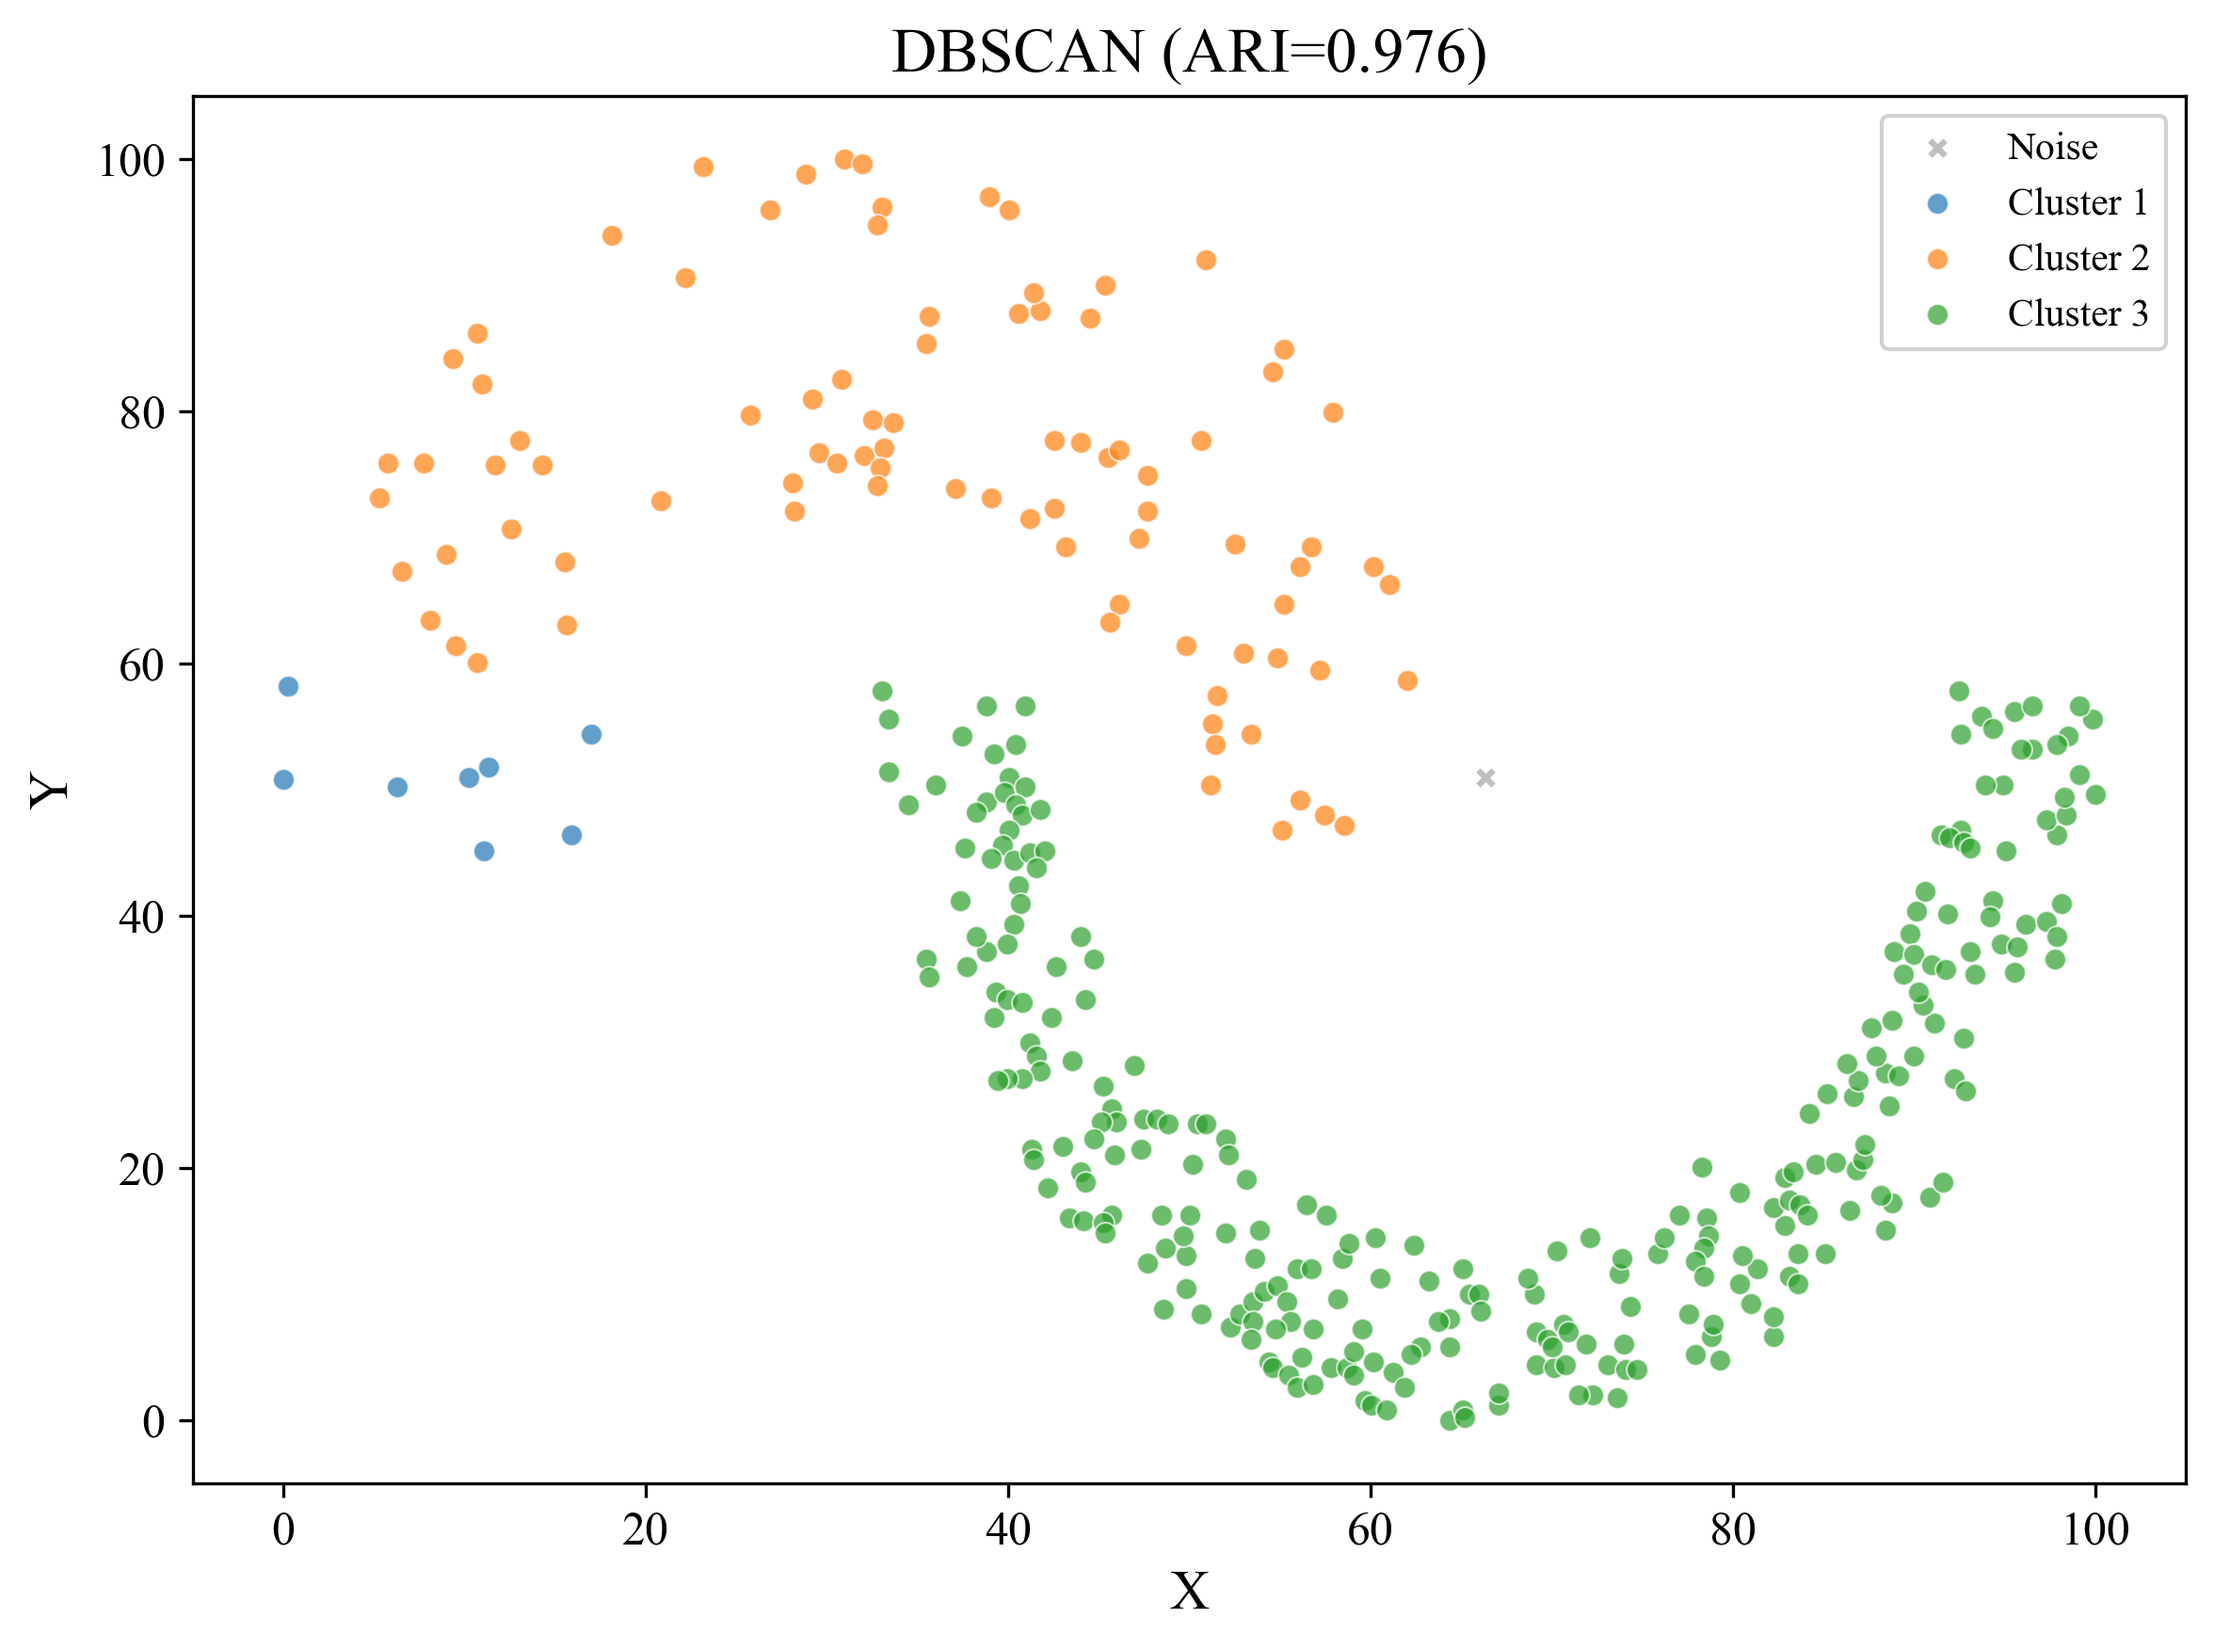
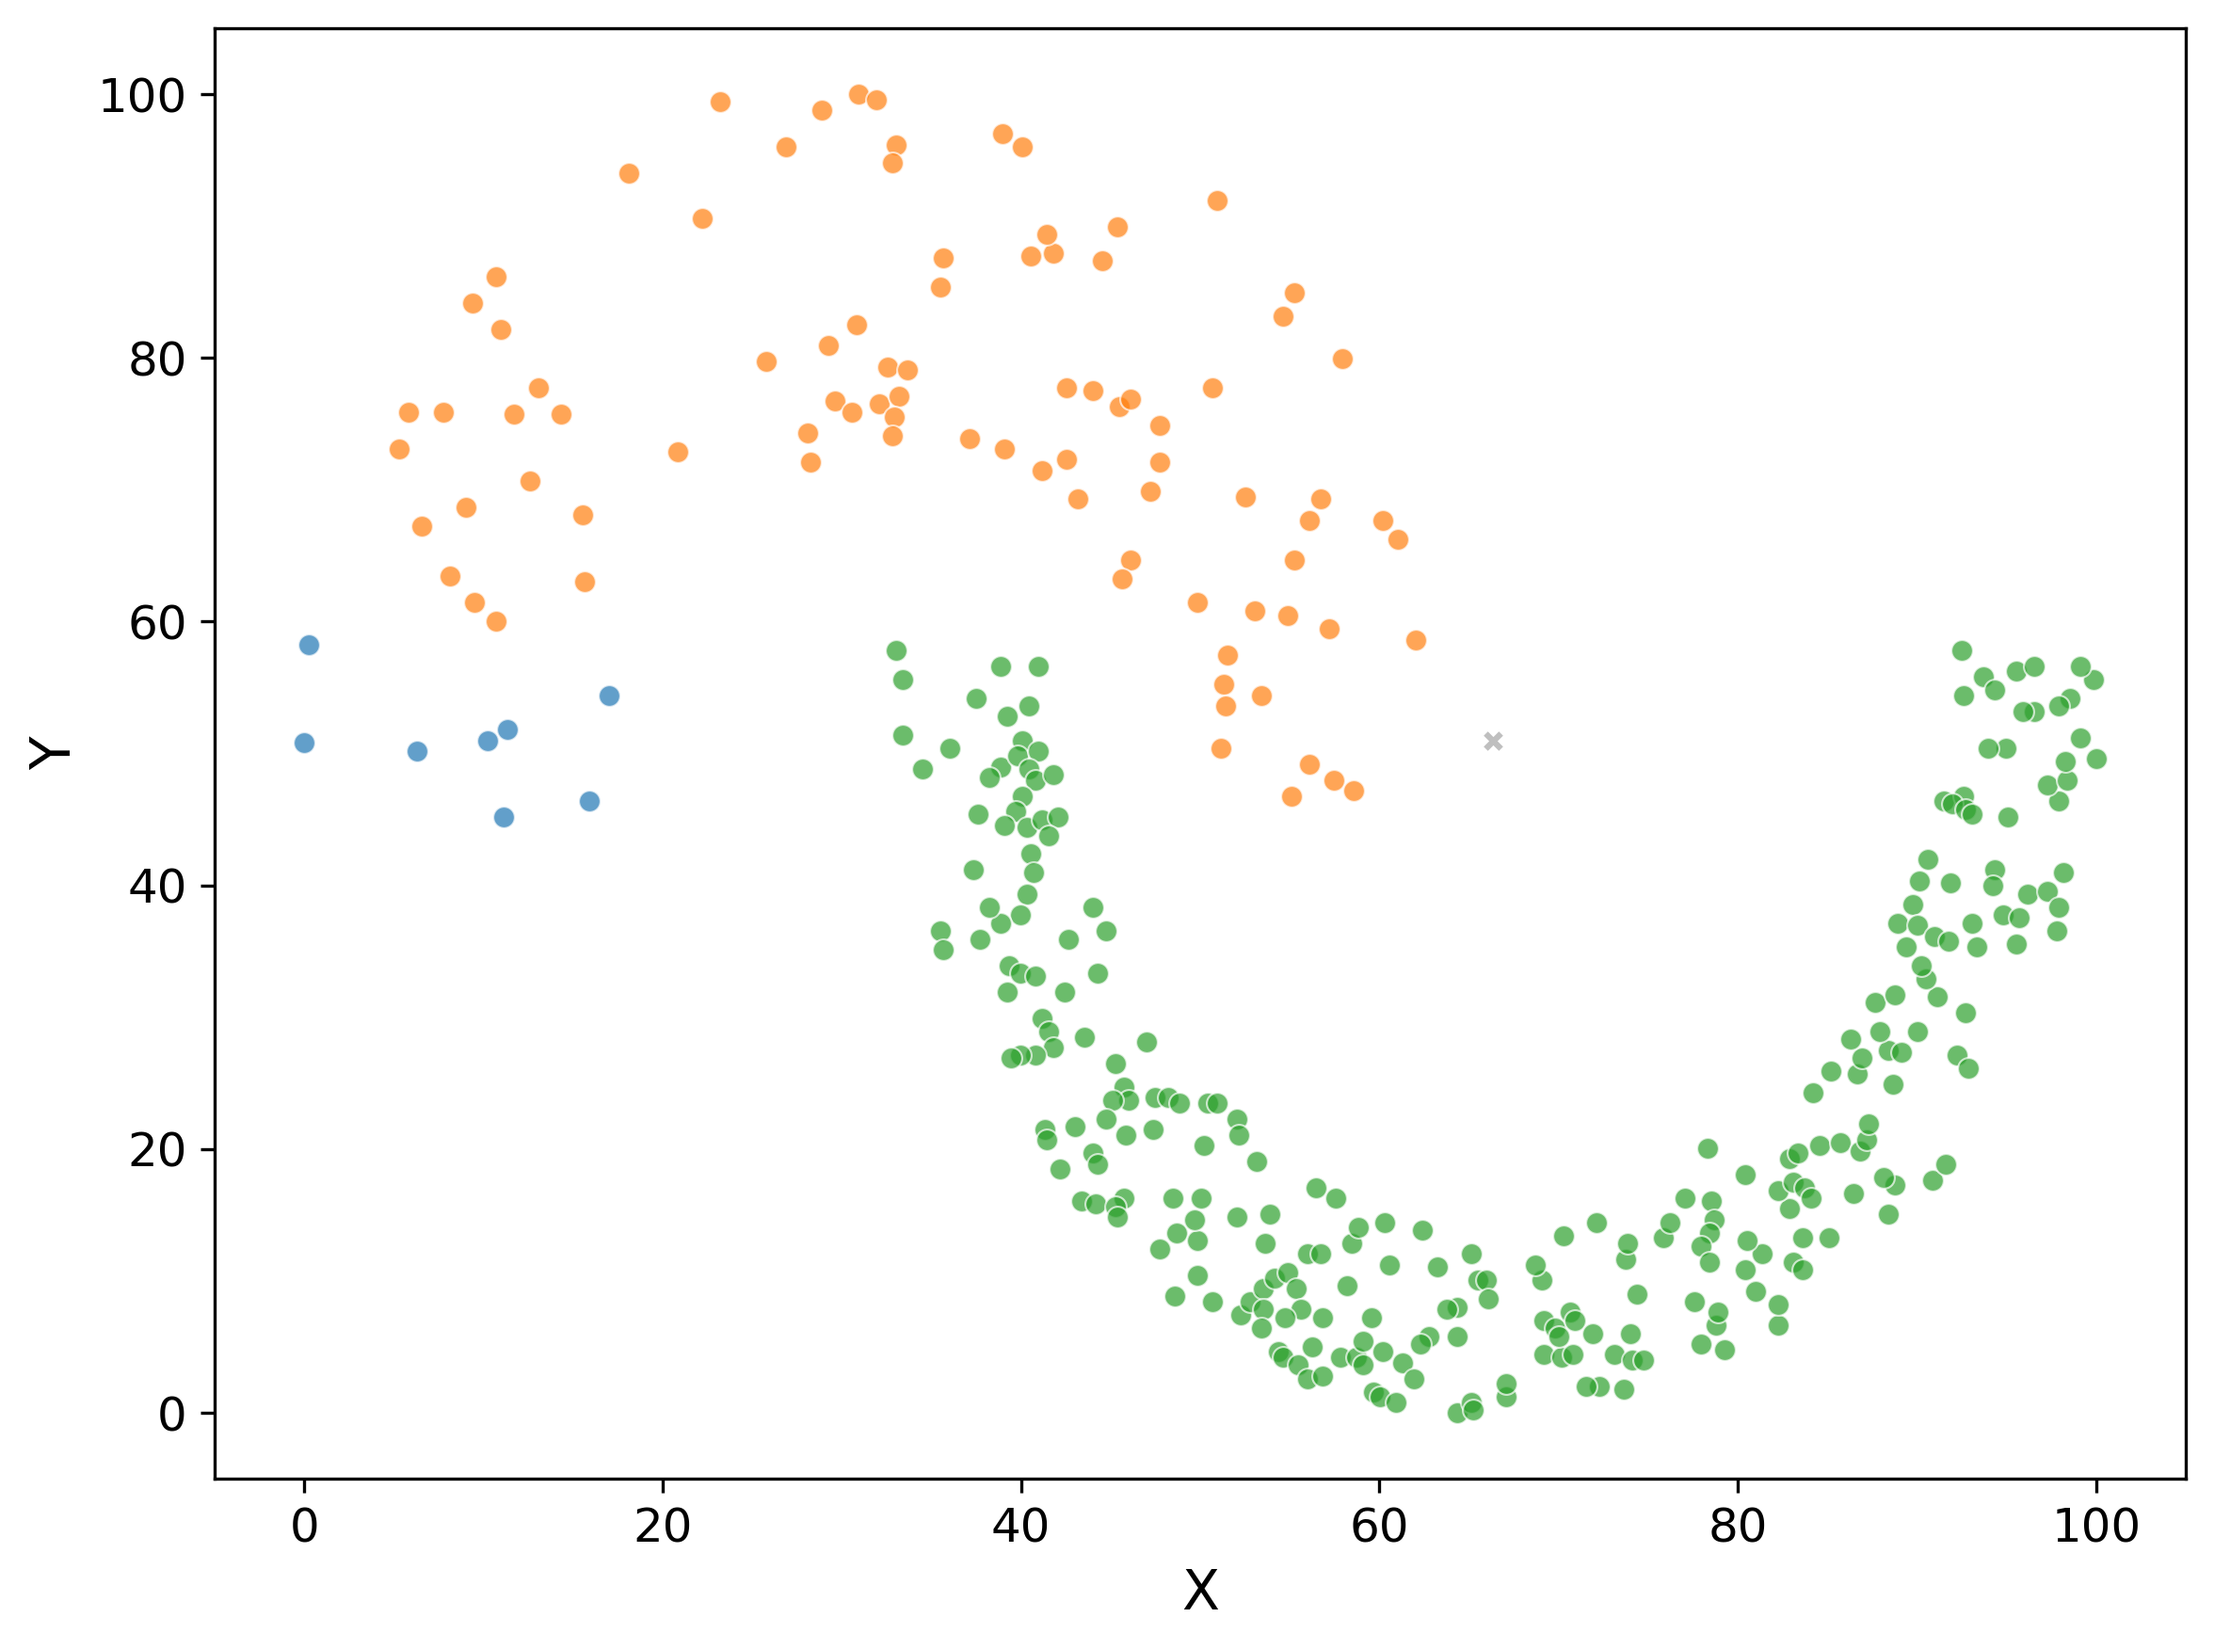
fix

diff --git a/algorithm_comparison/alg_dbscan.py b/algorithm_comparison/alg_dbscan.py
@@ -14,7 +14,7 @@ from algorithm_comparison.utils import (
 )
 
 # ==================== 配置 ====================
-DATASET = "../data/2d_3c.csv"
+DATASET = "../data/s1.csv"
 OUTPUT_DIR = "results"
 NORMALIZE = True
 
@@ -72,6 +72,10 @@ def grid_search(X, y_true, param_ranges, optimize_metric='ARI'):
     for i, values in enumerate(product(*param_values), 1):
         params = dict(zip(param_names, values))
         
+        # 显示进度（每20次或最后一次）
+        if i % 20 == 0 or i == total_combinations:
+            print(f"  进度: {i}/{total_combinations}, 当前最佳{optimize_metric}: {best_score:.4f}")
+        
         try:
             labels = run_dbscan(X, **params)
             metrics = evaluate_clustering(y_true, labels, X)
@@ -88,9 +92,6 @@ def grid_search(X, y_true, param_ranges, optimize_metric='ARI'):
                 best_params = params
                 best_labels = labels
                 best_metrics = metrics
-            
-            if i % 20 == 0 or i == total_combinations:
-                print(f"  进度: {i}/{total_combinations}, 当前最佳{optimize_metric}: {best_score:.4f}")
                 
         except Exception as e:
             pass

diff --git a/algorithm_comparison/alg_gmm.py b/algorithm_comparison/alg_gmm.py
@@ -15,7 +15,7 @@ from algorithm_comparison.utils import (
 )
 
 # ==================== 配置 ====================
-DATASET = "../data/2d_3c.csv"
+DATASET = "../data/s1.csv"
 OUTPUT_DIR = "results"
 NORMALIZE = True
 
@@ -25,8 +25,8 @@ NORMALIZE = True
 # - covariance_type: 协方差类型 ('full', 'tied', 'diag', 'spherical')
 # - n_init: 初始化次数
 PARAM_RANGES = {
-    'n_components': (3, 3, 1),    # 簇数：从2到15，步长1
-    'n_init': (10, 50, 1)           # 初始化次数：从5到20，步长5
+    'n_components': (15, 15, 1),    # 簇数：从2到15，步长1
+    'n_init': (10, 10, 1)           # 初始化次数：从5到20，步长5
 }
 
 # 协方差类型列表（单独处理）

diff --git a/algorithm_comparison/alg_bang.py b/algorithm_comparison/alg_bang.py
@@ -22,7 +22,7 @@ except ImportError:
     print("警告: pyclustering未安装，请运行: pip install pyclustering")
 
 # ==================== 配置 ====================
-DATASET = "../data/2d_3c.csv"
+DATASET = "../data/s1.csv"
 OUTPUT_DIR = "results"
 NORMALIZE = True
 
@@ -31,7 +31,7 @@ NORMALIZE = True
 # - levels: 网格层级数（决定网格精细程度）
 # - density_threshold: 密度阈值（相对值0-1）
 PARAM_RANGES = {
-    'levels': (4, 100, 1),                  # 网格层级：从3到15，步长1
+    'levels': (4, 50, 1),                  # 网格层级：从3到15，步长1
     'density_threshold': (0.01, 1, 0.05)  # 密度阈值：从0.0到0.3，步长0.05
 }
 

diff --git a/algorithm_comparison/alg_contour.py b/algorithm_comparison/alg_contour.py
@@ -17,13 +17,13 @@ from algorithm_comparison.utils import (
 )
 
 # ==================== 配置 ====================
-DATASET = "../data/jain.csv"
+DATASET = "../data/Aggregation.csv"
 OUTPUT_DIR = "results"
 NORMALIZE = True
 
 # 参数搜索范围 (start, end, step)
 PARAM_RANGES = {
-    'grid_size': (3.160, 3.170, 0.001),           # 从1.0到5.0，步长0.5
+    'grid_size': ( 1.491,  1.491, 0.001),           # 从1.0到5.0，步长0.5
     'max_buffer_distance': (0, 0, 1),        # 从0到5，步长1
     'min_cluster_size': (5, 5, 1),          # 从3到10，步长2
     'density_radius': (30, 30, 1)            # 从20到40，步长5

diff --git a/algorithm_comparison/alg_kmeans.py b/algorithm_comparison/alg_kmeans.py
@@ -14,13 +14,13 @@ from algorithm_comparison.utils import (
 )
 
 # ==================== 配置 ====================
-DATASET = "../data/2d_3c.csv"
+DATASET = "../data/s1.csv"
 OUTPUT_DIR = "results"
 NORMALIZE = True
 
 # 参数搜索范围 (start, end, step)
 PARAM_RANGES = {
-    'n_clusters': (3, 3, 1),      # 簇数：从2到15，步长1
+    'n_clusters': (15, 15, 1),      # 簇数：从2到15，步长1
     'n_init': (10, 50, 1),        # 初始化次数：从10到50，步长10
     'max_iter': (300, 500, 50)    # 最大迭代：从300到500，步长50
 }

diff --git a/algorithm_comparison/alg_clique2.py b/algorithm_comparison/alg_clique2.py
@@ -21,7 +21,7 @@ except ImportError:
     print("警告: pyclustering未安装，请运行: pip install pyclustering")
 
 # ==================== 配置 ====================
-DATASET = "../data/2d_3c.csv"
+DATASET = "../data/s1.csv"
 OUTPUT_DIR = "results"
 NORMALIZE = True
 
